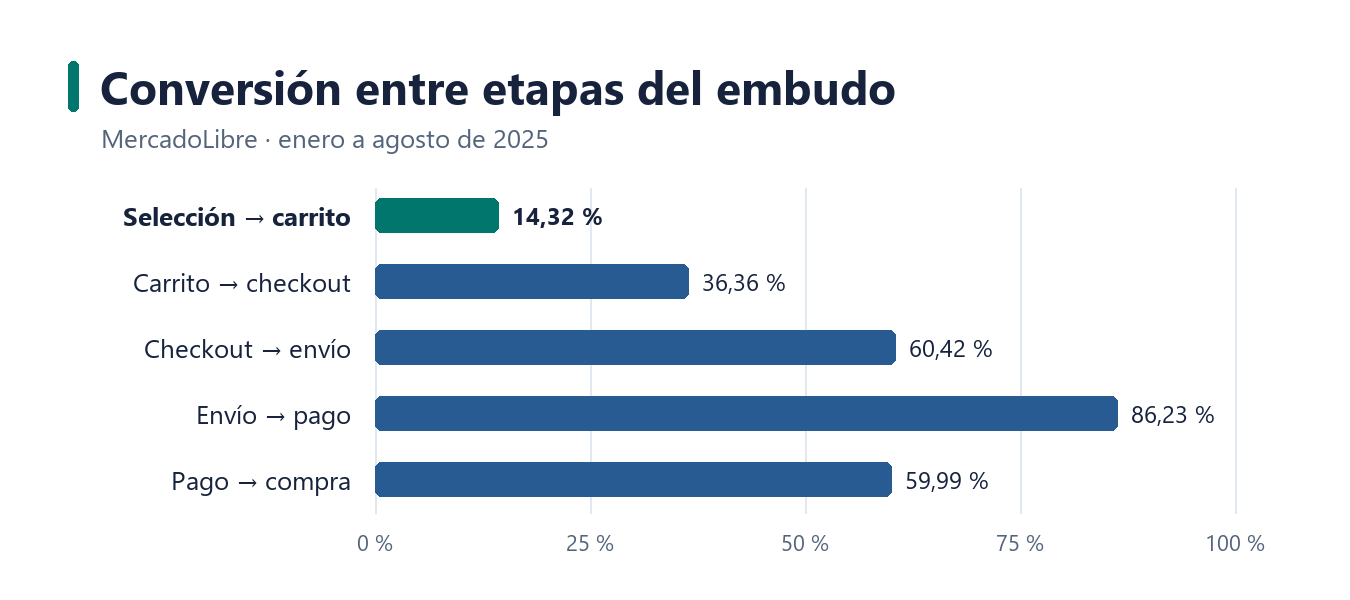
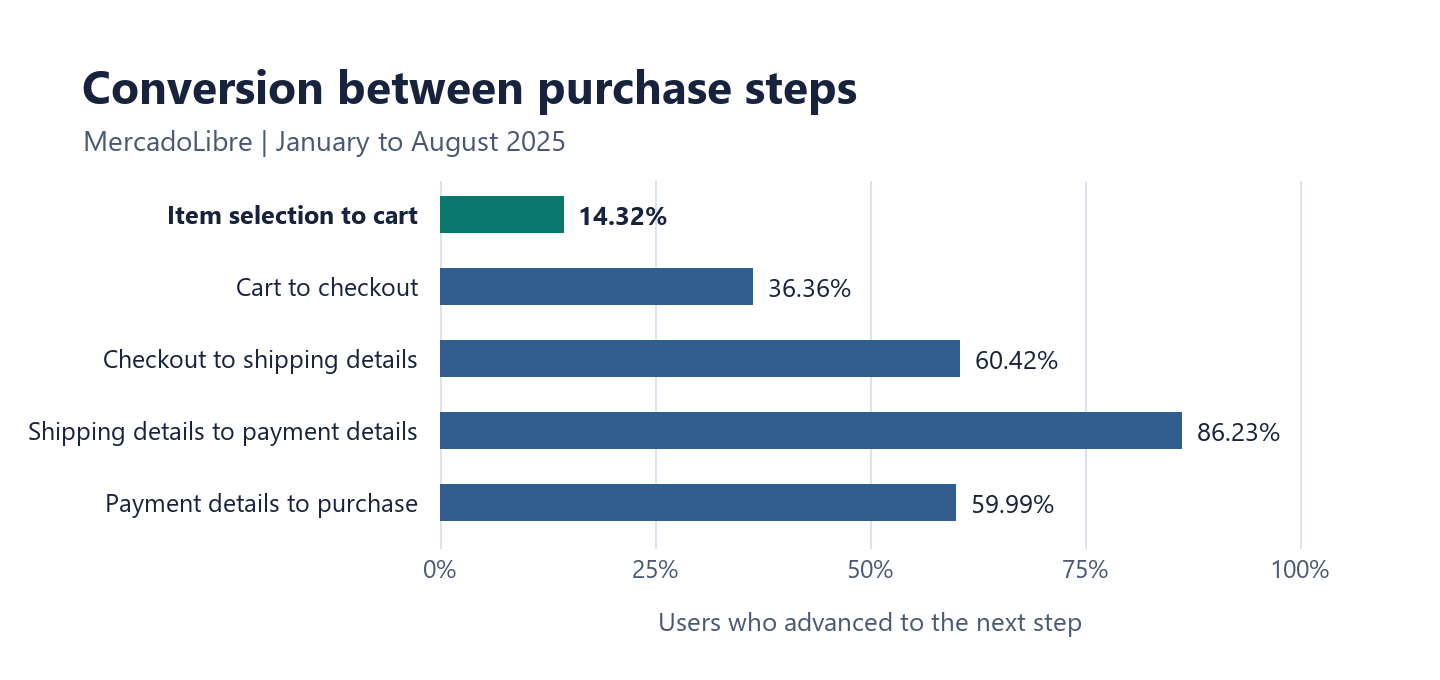
Present MercadoLibre portfolio analysis in English

diff --git a/README.md b/README.md
@@ -2,100 +2,105 @@
 
 ## Project Overview
 
-Este caso de portafolio de Miguel Torres parte de un proyecto aprobado en TripleTen. Analicé dónde se pierden más usuarios en el recorrido de compra y en qué momento conviene probar una acción para que vuelvan después de registrarse. El **14,32 %** de quienes seleccionaron un producto lo agregó al carrito. Ese fue el punto con mayor pérdida entre las transiciones analizadas.
+Where do shoppers drop out of the purchase journey, and when are new users less likely to return? This project uses SQL and Excel to examine the steps from a first visit to a purchase and measure activity during the first 28 days after signup. The largest drop in the funnel occurred between selecting an item and adding it to the cart. Only **14.32%** of users who selected an item added it to their cart.
 
 ## Business Context
 
-Para priorizar mejoras en la experiencia de compra, el equipo de producto necesita saber si los usuarios abandonan antes de agregar un producto al carrito o cuando ya están intentando pagar. La actividad después del registro permite identificar un momento para probar acciones que incentiven el regreso a la plataforma.
+The product team needs to decide where to focus its efforts. A drop before users add an item to the cart points to a different part of the shopping experience than a drop during checkout. Tracking activity after signup helps the team decide when to test a message that encourages users to return.
 
 ## Datasets Used
 
-- **Eventos de compra (`mercadolibre_funnel`).** Registran las acciones de usuarios y sesiones, junto con su fecha y país. El embudo cubre del 1 de enero al 31 de agosto de 2025.
-- **Actividad después del registro (`mercadolibre_retention`).** Permite identificar si un usuario estuvo activo a los 7, 14, 21 y 28 días de registrarse. El resumen ejecutivo de retención se centra en los registros del 1 de enero al 1 de junio de 2025.
+### 1. `mercadolibre_funnel`
+
+The shopping events table records actions by user and session, along with the event date and country. These records describe the steps shoppers took between their first visit and a purchase. The funnel covers January 1 through August 31, 2025.
+
+### 2. `mercadolibre_retention`
+
+The retention table records activity after signup. It supports comparisons at 7, 14, 21, and 28 days and a breakdown by country. The executive retention summary covers users who signed up from January 1 through June 1, 2025.
 
 ## Project Objectives
 
-- Identificar la transición con mayor pérdida de usuarios en el recorrido de compra.
-- Medir cómo cambia la actividad tras el registro y comparar los resultados por país.
-- Proponer acciones que puedan evaluarse con métricas de conversión y retención.
+- Identify the step where the largest share of users dropped out of the purchase journey.
+- Measure how activity changed after signup and compare the results by country.
+- Propose actions the product team can evaluate with conversion and retention metrics.
 
 ## Analytical Workflow
 
 ### 1. Data Loading and Initial Exploration
 
-Usé SQL para inspeccionar las primeras filas de las tablas e identificar los eventos del recorrido de compra.
+I used SQL to inspect the first rows of both tables and identify the events that make up the purchase journey. This established which events represented steps such as selecting an item, adding it to the cart, and completing a purchase.
 
 ### 2. Data Quality Review
 
-Revisé la estructura de las tablas para identificar los campos de usuario, sesión, fecha y actividad que sustentan el análisis.
+I reviewed the table structure to identify the user, session, date, and activity fields used in the analysis. These fields distinguish actions during a shopping session from activity measured after signup.
 
 ### 3. Data Cleaning
 
-Para el embudo, la fecha relevante es la del evento de compra. Para la retención, el seguimiento empieza en la fecha de registro de cada usuario.
+Each part of the analysis uses a different date. The funnel uses the event date to define the shopping period. Retention uses each user's signup date as the starting point for measuring activity on the four follow-up days.
 
 ### 4. User-Level Aggregation
 
-El embudo resume el avance entre pasos, desde la primera visita hasta la compra. Para analizar la retención, agrupé a los usuarios por mes de registro. Cada grupo mensual es una cohorte.
+The funnel summarizes how users moved through the shopping journey from first visit to purchase. For retention, I grouped users by signup month. Each group of users who signed up in the same month is a **cohort**.
 
 ### 5. Descriptive Analysis
 
-Comparé la proporción que avanzó de un paso al siguiente y la proporción de usuarios activos en cada momento de seguimiento. El libro de análisis reúne los resultados generales y el desglose por país.
+For the funnel, I compared the share of users who reached each next step. For retention, I compared the share of users who were active on each follow-up day. The workbook shows the overall results and the breakdown by country.
 
 ### 6. Data Visualization
 
-Cada barra muestra qué porcentaje avanzó al siguiente paso. La barra destacada muestra la transición con menor conversión.
+Each bar shows the share of users who advanced from one funnel step to the next. The highlighted bar marks the step with the lowest conversion rate.
 
 <p align="center">
-  <img src="images/1_mercadolibre-funnel-conversion.png" alt="Conversión entre etapas del embudo. De selección a carrito avanzó el 14,32 %, la tasa más baja de las cinco transiciones mostradas." width="760">
+  <img src="images/1_mercadolibre-funnel-conversion.png" alt="Conversion rates for five funnel steps. Item selection to cart has the lowest rate at 14.32%." width="760">
 </p>
 
-*Fuente · Excel aprobado, hoja `Resumen`, rango `A9:C14`. Los valores se pueden consultar en el [libro de análisis](mercadolibre-funnel-retention-analysis.xlsx).*
+*Source · [Analysis workbook](mercadolibre-funnel-retention-analysis.xlsx), `Resumen` worksheet.*
 
-La segunda gráfica muestra qué porcentaje de las personas que se registraron en marzo de 2025 estuvo activo a los 7, 14, 21 y 28 días.
+The retention chart follows users who signed up in March 2025. Each point shows the share of that cohort who were active on the indicated day after signup.
 
 <p align="center">
-  <img src="images/2_mercadolibre-march-2025-cohort-retention.png" alt="Actividad de los usuarios registrados en marzo de 2025. El 87,7 % estuvo activo el día 7, el 56,8 % el día 14, el 26,6 % el día 21 y el 3,0 % el día 28." width="760">
+  <img src="images/2_mercadolibre-march-2025-cohort-retention.png" alt="Retention for users who signed up in March 2025. The active share was 87.7% on Day 7, 56.8% on Day 14, 26.6% on Day 21, and 3.0% on Day 28." width="760">
 </p>
 
-*Fuente · Excel aprobado, hoja `Retencion x Cohort`, rango `A4:E4`. Los valores se pueden consultar en el [libro de análisis](mercadolibre-funnel-retention-analysis.xlsx).*
+*Source · [Analysis workbook](mercadolibre-funnel-retention-analysis.xlsx), `Retencion x Cohort` worksheet.*
 
 ### 7. Outlier Detection
 
-El libro también incluye a los usuarios registrados en agosto. En ese grupo, el **70,8 %** estuvo activo a los 7 días y el **0,2 %** a los 28 días. Agosto se presenta por separado porque queda fuera del periodo de registro usado en el resumen ejecutivo de retención.
+Among users who signed up in August 2025, **70.8%** were active on Day 7 and **0.2%** on Day 28. August falls outside the signup period used in the executive retention summary, so its results are presented separately here.
 
 ### 8. Customer Segmentation
 
-A los 28 días del registro, el porcentaje de usuarios activos fue del **3,2 % en Perú**, el **3,1 % en México** y el **1,6 % en Colombia**. El desglose muestra cómo varía la actividad entre mercados.
+The country breakdown shows how activity varied across markets. On Day 28, **3.2%** of users in Peru were active, compared with **3.1%** in Mexico and **1.6%** in Colombia.
 
 ### 9. Executive Insights
 
-La ficha del producto es el primer punto para probar una mejora de conversión. Para retención, la segunda semana después del registro ofrece un momento para probar una comunicación que invite al usuario a volver.
+The funnel points to the product page as the first place to test a conversion improvement. The decline in activity during the second week after signup suggests a window to test a reminder. Each test would address a different point in the user journey.
 
 ## Key Tasks Performed
 
-Exploré las tablas con SQL, documenté en Excel el embudo y la retención por país y por mes de registro, y preparé dos gráficas para comunicar los hallazgos.
+I explored the source tables in SQL, documented funnel and retention results in Excel, and compared results across countries and signup months. I prepared two charts to communicate the main conversion and retention patterns.
 
 ## Key Findings
 
-- **Conversión.** El **85,68 %** de quienes seleccionaron un producto no lo agregó al carrito. Fue la mayor pérdida del embudo y sitúa la primera prueba de conversión en la ficha del producto.
-- **Retención.** Entre los usuarios incluidos en el resumen ejecutivo, el **86,6 %** estuvo activo a los 7 días del registro y el **55,4 %** a los 14 días. La caída de **31,2 puntos porcentuales** entre ambos cortes señala cuándo probar una acción de reactivación. En D28, la actividad fue del **2,6 %**.
+- **Conversion.** From January through August 2025, **85.68%** of users who selected an item did not add it to the cart. This was the largest drop among the measured steps and makes the product page the first place to test a change.
+- **Retention.** In the executive summary, **86.6%** of users were active on Day 7, **55.4%** on Day 14, and **2.6%** on Day 28. The **31.2 percentage-point** drop from Day 7 to Day 14 identifies when to test a reminder.
 
 ## Business Recommendations
 
-- **Facilitar el paso al carrito.** Probar si mostrar el costo y el plazo de entrega en la ficha aumenta la proporción de usuarios que agregan un producto al carrito. Medir también cuántos terminan comprando.
-- **Invitar al usuario a volver durante su segunda semana.** Enviar un recordatorio entre los días 7 y 14 después del registro a un grupo de usuarios. Comparar cuántos vuelven a usar la plataforma frente a un grupo similar que no recibe el mensaje.
+- **Make delivery information easier to find.** Test whether showing shipping costs and estimated delivery dates on the product page increases the share of users who add an item to the cart. Track completed purchases to see whether the effect carries through checkout.
+- **Test a reminder during the second week after signup.** Send a reminder between Day 7 and Day 14 to one group and compare its return rate with a similar group that receives no reminder.
 
 ## Tools and Skills
 
-**SQL** para explorar las tablas y estructurar el análisis de conversión y retención. **Excel** para documentar resultados, comparar mercados y preparar el resumen ejecutivo.
+I used **SQL** to explore the tables and structure the conversion and retention analysis. I used **Excel** to organize the results, compare markets, and prepare the executive summary.
 
 ## Professional Value
 
-El análisis conecta dos decisiones de producto con sus métricas. Una mejora en la ficha se evalúa por el paso al carrito y la compra final. Una acción de reactivación se evalúa por el regreso de usuarios registrados.
+The project connects two product decisions to measurable outcomes. A change to the product page can be evaluated through cart additions and completed purchases. A reminder can be evaluated through the share of registered users who return.
 
 ## Personal Voice & Learning
 
-Al revisar el embudo, encontré que el mayor punto de pérdida ya aparecía al pasar de la ficha al carrito. Ese hallazgo me permitió formular una prueba concreta sobre la información que ve el comprador antes de decidir.
+I learned to look at each step of the purchase journey before choosing where to intervene. Finding the largest drop between item selection and cart addition helped me propose a specific test of the information shoppers see before they decide.
 
 ## Repository Structure
 
@@ -110,9 +115,9 @@ mercadolibre-funnel-retention-analysis/
 
 ### File Guide
 
-- [Libro de análisis](mercadolibre-funnel-retention-analysis.xlsx) · Resumen ejecutivo y tablas de conversión y retención.
-- [Gráficas](images/) · Archivos PNG del embudo y de la actividad de los usuarios registrados en marzo.
+- [Analysis workbook](mercadolibre-funnel-retention-analysis.xlsx) · Executive summary and conversion and retention tables.
+- [Charts](images/) · PNG files for the purchase funnel and the March 2025 signup cohort.
 
 ## Reproducibility Note
 
-El [libro de análisis](mercadolibre-funnel-retention-analysis.xlsx) contiene los valores usados en las gráficas. La hoja `Resumen` presenta la conversión entre etapas y `Embudo General` muestra el avance acumulado. Para la segunda gráfica se usa la fila de marzo de 2025 en `Retencion x Cohort`. El repositorio publica las tablas de resultados y las visualizaciones.
+The [analysis workbook](mercadolibre-funnel-retention-analysis.xlsx) contains the values used in both charts. The `Resumen` worksheet shows conversion between steps, and `Embudo General` shows cumulative progress through the funnel. The retention chart uses the March 2025 row in `Retencion x Cohort`.
